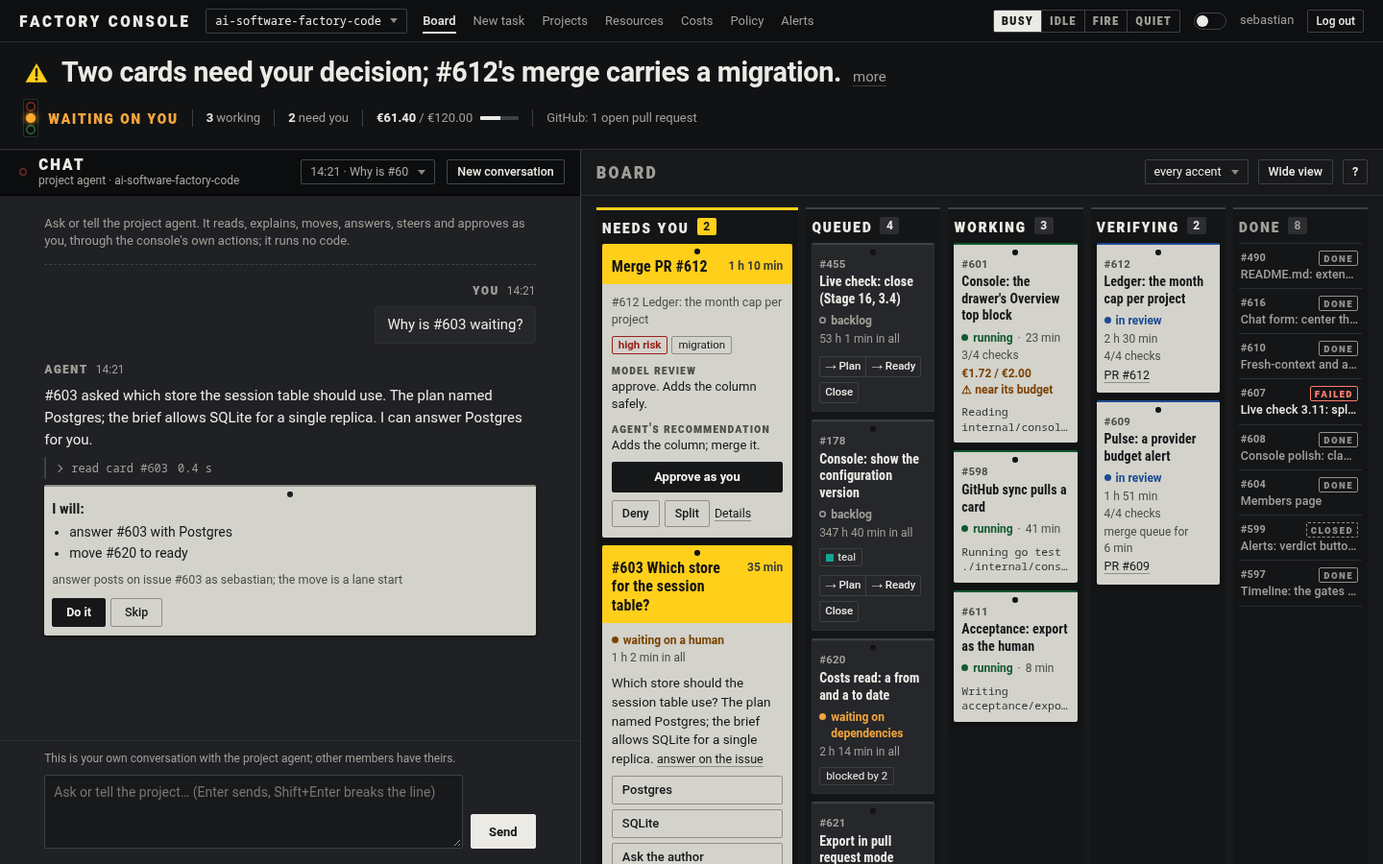
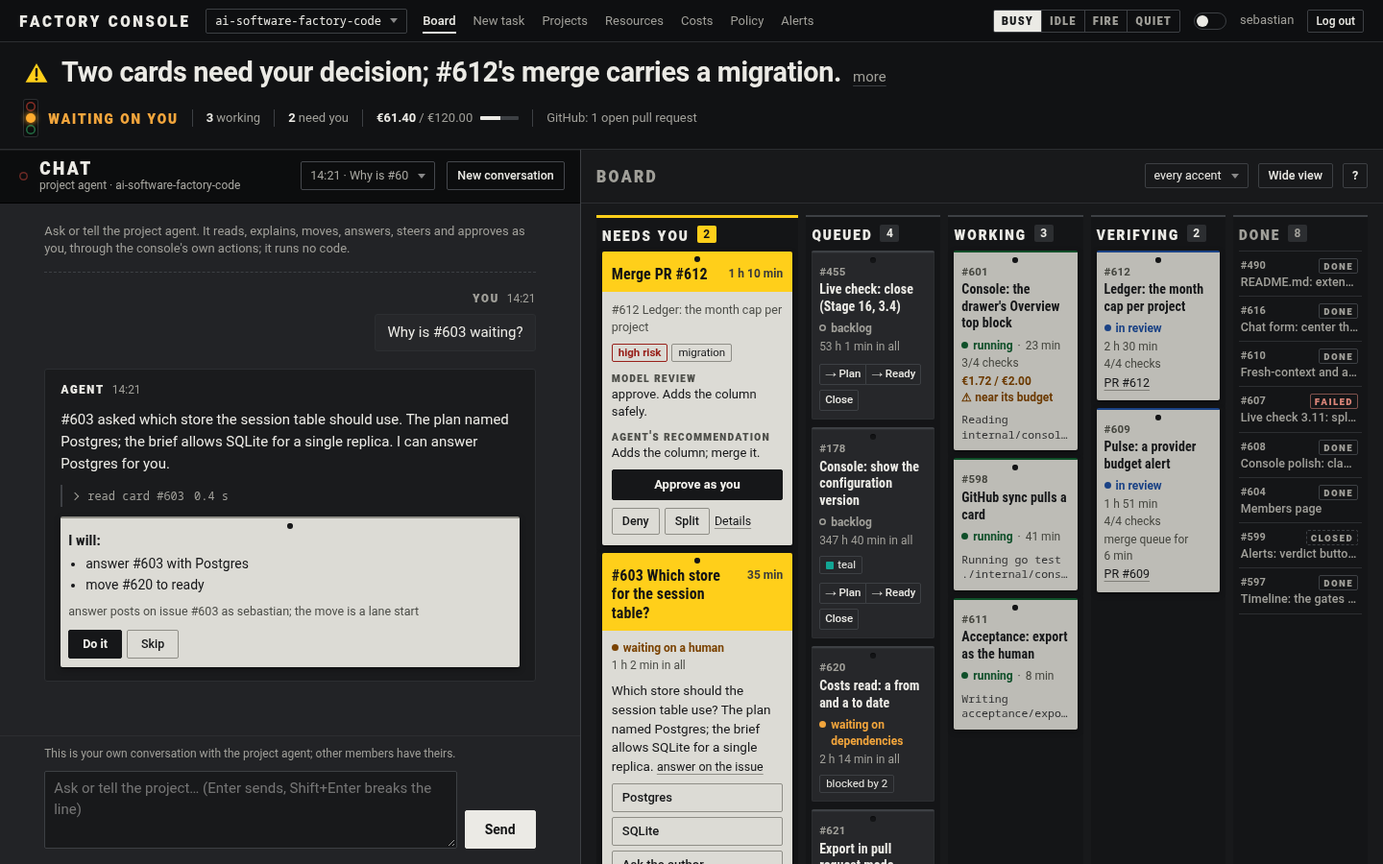
prototype 13 Factory floor: fix loop 1 (dimmed work orders, the chat raised, opaque drawer, phone status row and buttons, light top bar) and the second critique

diff --git a/design/prototypes/13-factory-floor/index.html b/design/prototypes/13-factory-floor/index.html
@@ -12,24 +12,24 @@
   --sans: "Inter", -apple-system, "Segoe UI", Roboto, "Helvetica Neue", Arial, sans-serif;
   --cond: "Roboto Condensed", "Helvetica Neue Condensed", "HelveticaNeue-CondensedBold", "Arial Narrow", "Liberation Sans Narrow", "Nimbus Sans Narrow", sans-serif;
   --mono: "JetBrains Mono", "SF Mono", Menlo, Consolas, "Noto Sans Mono", "DejaVu Sans Mono", monospace;
-  --bar: #0e0f11; --band: #111214; --bg: #18191b; --sunken: #141517; --raised: #202124;
-  --plate: #0c0d0e; --card: #26272a; --paper: #d3d2cb;
+  --bar: #0e0f11; --band: #111214; --bg: #18191b; --sunken: #141517; --raised: #222326;
+  --plate: #0c0d0e; --card: #26272a; --paper: #dcdbd5; --turn: #1a1b1d;
   --line: #2c2e31; --line-2: #3d4044; --hover: rgba(255,255,255,.055);
   --text: #ebeae5; --muted: #a09f99;
   --run: #5fcb92; --wait: #f2a53c; --review: #84b5ff; --fail: #ff7b6c; --done: #a09f99;
   --btn: #ebeae5; --btn-ink: #121314; --btn-hover: #ffffff; --focus: #ebeae5;
-  --need: #ffcf1a; --need-ink: #141414;
+  --need: #ffcf1a; --need-ink: #141414; --fail-muted: #d98478;
   --shadow: 0 1px 0 rgba(0,0,0,.5), 0 2px 6px rgba(0,0,0,.35);
   --drawer-shadow: -18px 0 40px rgba(0,0,0,.5);
   color-scheme: dark;
 }
 [data-theme="light"] {
   --bar: #f3f3ef; --band: #f3f3ef; --bg: #dcdbd5; --sunken: #d2d1ca; --raised: #fafaf8;
-  --plate: #26282b; --card: #ecebe5; --paper: #ffffff;
+  --plate: #26282b; --card: #ecebe5; --paper: #ffffff; --turn: #f0f0ec;
   --line: #c4c3bc; --line-2: #a9a8a0; --hover: rgba(0,0,0,.05);
   --text: #161719; --muted: #50514b;
   --run: #11592f; --wait: #7a4200; --review: #1d4a92; --fail: #98201a; --done: #50514b;
-  --btn: #161719; --btn-ink: #f4f3ee; --btn-hover: #34363a; --focus: #161719;
+  --btn: #161719; --btn-ink: #f4f3ee; --btn-hover: #34363a; --focus: #161719; --fail-muted: #9a3b30;
   --shadow: 0 1px 0 rgba(0,0,0,.08), 0 1px 3px rgba(0,0,0,.12);
   --drawer-shadow: -18px 0 40px rgba(0,0,0,.16);
   color-scheme: light;
@@ -42,6 +42,13 @@
   background: var(--paper); color: var(--text); color-scheme: light;
 }
 [data-theme="light"] .paper { --muted: #50514b; }
+/* Work orders on the board are dimmed paper: the Needs you items stay the only bright thing there. */
+[data-theme="dark"] .paper.dim {
+  --paper: #bdbcb6; --muted: #45463f; --line: #a3a29b; --line-2: #7f7e77; --done: #45463f;
+  --run: #0f4f29; --wait: #6c3a00; --review: #1a4285; --fail: #8a1b15;
+}
+[data-theme="light"] .paper.dim { --paper: #f2f2ef; }
+[data-theme="light"] .bar { --muted: var(--text); }
 .plate {
   --text: #ebeae5; --muted: #a8a7a1; --line: #2a2c30; --line-2: #45484d; --hover: rgba(255,255,255,.07);
   --btn: #ebeae5; --btn-ink: #121314; --btn-hover: #fff; --focus: #ebeae5;
@@ -157,20 +164,22 @@ main { display: grid; grid-template-columns: 42% minmax(0, 1fr); min-height: 0; 
 [data-view="wide"] .chat { display: none; }
 
 /* chat: the radio panel */
-.chat { --hole: var(--raised); display: grid; grid-template-rows: 48px minmax(0, 1fr) auto; min-height: 0; background: var(--raised); border-right: 1px solid var(--line-2); }
+.chat { --hole: var(--turn); display: grid; grid-template-rows: 56px minmax(0, 1fr) auto; min-height: 0; background: var(--raised); border-right: 1px solid var(--line-2); }
 .chat-h { display: flex; align-items: center; gap: 12px; padding: 0 16px 0 20px; min-width: 0; border-bottom: 1px solid #000; box-shadow: inset 0 1px 0 rgba(255,255,255,.06); }
-.air { width: 8px; height: 8px; border-radius: 50%; flex: none; box-shadow: inset 0 0 0 1.5px #6b2a25; }
+.air { width: 9px; height: 9px; border-radius: 50%; flex: none; box-shadow: inset 0 0 0 1.5px #6b2a25; }
 .air.on { background: #ff4d3d; box-shadow: 0 0 8px #ff4d3d; }
 .ch-t { flex: 1; min-width: 0; display: grid; gap: 3px; }
-.chat-h h2 { margin: 0; font-size: 21px; line-height: 15px; }
+.chat-h h2 { margin: 0; font-size: 24px; line-height: 17px; }
 .chat-h .who { color: var(--muted); font-size: 12px; line-height: 14px; white-space: nowrap; overflow: hidden; text-overflow: ellipsis; min-width: 0; }
-.chat-h .sel { height: 26px; max-width: 140px; color: var(--muted); }
-.chat-h .btn { height: 26px; }
+.chat-h .sel { height: 30px; max-width: 140px; color: var(--muted); }
+.chat-h .btn { height: 30px; }
 .log { overflow-y: auto; padding: 20px 24px 12px; min-height: 0; }
 .log-in { max-width: 70ch; margin: 0 auto; display: grid; gap: 18px; }
 .start { margin: 0; color: var(--muted); font-size: 13px; padding-bottom: 14px; border-bottom: 1px dashed var(--line-2); }
 .msg { display: grid; gap: 6px; font-size: 15px; line-height: 1.55; }
 .msg .meta { margin: 0; display: flex; gap: 8px; align-items: baseline; color: var(--muted); font-size: 12px; }
+.msg.agent { background: var(--turn); border: 1px solid var(--line); border-radius: 3px; padding: 12px 16px 14px; gap: 10px; }
+.msg.agent .cs { color: var(--text); }
 .cs { font-size: 16px; line-height: 1; color: var(--muted); }
 .msg p.txt { margin: 0; }
 .msg.you { justify-items: end; }
@@ -200,16 +209,16 @@ main { display: grid; grid-template-columns: 42% minmax(0, 1fr); min-height: 0; 
 .composer-in { max-width: 70ch; margin: 0 auto; }
 .own { margin: 0 0 8px; color: var(--muted); font-size: 12px; }
 .compose { display: grid; grid-template-columns: 1fr auto; gap: 8px; align-items: end; }
-.compose textarea { min-height: 68px; font-size: 14px; background: var(--bg); }
+.compose textarea { min-height: calc(3 * 1.45em + 16px); font-size: 15px; background: var(--bg); }
 [data-theme="light"] .compose textarea { background: #fff; }
-.compose .btn { height: 36px; padding: 0 18px; font-size: 13px; }
+.compose .btn { height: 40px; padding: 0 20px; font-size: 14px; }
 .queue { list-style: none; margin: 8px 0 0; padding: 0; display: grid; gap: 4px; }
 .queue li { display: flex; gap: 6px; align-items: center; border: 1px dashed var(--line-2); border-radius: 2px; padding: 3px 4px 3px 10px; font-size: 13px; }
 .queue li .q-t { flex: 1; text-align: left; background: none; border: 0; padding: 2px 0; overflow: hidden; text-overflow: ellipsis; white-space: nowrap; }
 .queue li .q-t:hover { text-decoration: underline; }
 
 /* board */
-.board { display: grid; grid-template-rows: 48px minmax(0, 1fr); min-height: 0; min-width: 0; }
+.board { position: relative; display: grid; grid-template-rows: 56px minmax(0, 1fr); min-height: 0; min-width: 0; }
 .bh { display: flex; align-items: center; gap: 10px; padding: 0 16px; border-bottom: 1px solid var(--line); }
 .bh h2 { margin: 0 auto 0 0; font-size: 22px; line-height: 1; color: var(--muted); }
 .bh .sel, .bh .btn { height: 26px; }
@@ -284,9 +293,8 @@ main { display: grid; grid-template-columns: 42% minmax(0, 1fr); min-height: 0; 
 .led .t:hover { background: var(--hover); }
 .led .ref { display: block; height: 18px; line-height: 18px; margin: 0; font-size: 11px; }
 .led .tt { display: block; font: 500 12.5px/1.3 var(--sans); white-space: nowrap; overflow: hidden; text-overflow: ellipsis; color: var(--muted); }
-.led.failed .tt { color: var(--text); }
-.stamp { position: absolute; right: 4px; top: 7px; font: 700 13px/14px var(--cond); font-variant-caps: all-small-caps; letter-spacing: .1em; color: var(--done); border: 1px solid currentColor; border-radius: 2px; padding: 0 4px; pointer-events: none; opacity: .9; }
-.stamp.fail { color: var(--fail); opacity: 1; }
+.stamp { position: absolute; right: 4px; top: 7px; font: 700 13px/14px var(--cond); font-variant-caps: all-small-caps; letter-spacing: .1em; color: var(--muted); border: 1px solid var(--line-2); border-radius: 2px; padding: 0 4px; pointer-events: none; }
+.stamp.fail { color: var(--fail-muted); border-color: color-mix(in srgb, var(--fail-muted) 55%, transparent); }
 .stamp.closed { border-style: dashed; }
 @container (max-width: 150px) { .wo .t .tt { -webkit-line-clamp: 3; } }
 @container (min-width: 240px) {
@@ -322,7 +330,11 @@ main { display: grid; grid-template-columns: 42% minmax(0, 1fr); min-height: 0; 
 .form { display: grid; gap: 6px; }
 .form label, .form legend { font-size: 12px; color: var(--muted); }
 .form fieldset { border: 0; padding: 0; margin: 0; display: grid; gap: 3px; }
-.form fieldset label { color: var(--text); font-size: 12.5px; display: flex; gap: 6px; align-items: baseline; }
+.form fieldset { gap: 5px; }
+.form fieldset label { color: var(--text); font-size: 12.5px; display: flex; gap: 8px; align-items: center; min-height: 32px; padding: 4px 10px; border: 1px solid var(--line-2); border-radius: 2px; cursor: pointer; }
+.form fieldset label:hover { border-color: var(--muted); }
+.form fieldset label:has(input:checked) { border-color: var(--text); box-shadow: inset 0 0 0 1px var(--text); }
+.form input[type=radio] { accent-color: var(--text); margin: 0; flex: none; }
 .form .acts { margin: 0; }
 .verdict { border-top: 1px solid var(--line); padding-top: 8px; display: flex; flex-wrap: wrap; gap: 5px; align-items: center; font-size: 12px; color: var(--muted); }
 .verdict > span { flex-basis: 100%; }
@@ -331,7 +343,9 @@ main { display: grid; grid-template-columns: 42% minmax(0, 1fr); min-height: 0; 
 
 /* drawer */
 .drawer { --hole: var(--raised); position: absolute; top: 0; right: 0; bottom: 0; width: min(46vw, 720px); z-index: 20; display: grid; grid-template-rows: auto auto auto minmax(0, 1fr); background: var(--raised); border-left: 1px solid var(--line-2); box-shadow: var(--drawer-shadow); animation: slide .16s ease-out; }
-@keyframes slide { from { transform: translateX(12px); opacity: 0; } }
+@keyframes slide { from { transform: translateX(12px); } }
+.board.dimmed::after { content: ""; position: absolute; inset: 0; z-index: 10; background: rgba(0,0,0,.45); cursor: pointer; }
+[data-theme="light"] .board.dimmed::after { background: rgba(40,40,36,.22); }
 .dr-h { display: flex; gap: 14px; align-items: flex-start; padding: 14px 16px 14px 20px; border-bottom: 1px solid #000; box-shadow: inset 0 1px 0 rgba(255,255,255,.06); }
 .dr-h .ref { font: 600 12px/1 var(--sans); color: var(--muted); text-decoration: none; }
 .dr-h .ref:hover { color: var(--text); text-decoration: underline; }
@@ -347,19 +361,20 @@ main { display: grid; grid-template-columns: 42% minmax(0, 1fr); min-height: 0; 
 .tab:hover { color: var(--text); }
 .tab[aria-selected="true"] { color: var(--text); border-bottom-color: var(--text); }
 .panel { overflow-y: auto; min-height: 0; padding-bottom: 24px; }
-.top { display: grid; grid-template-columns: 76px 1fr; gap: 7px 14px; margin: 0; padding: 18px 20px; font-size: 14px; }
+.top { display: grid; grid-template-columns: 88px 1fr; margin: 18px 20px 20px; border-top: 2px solid var(--line-2); font-size: 14px; }
+.top dt, .top dd { margin: 0; padding: 8px 0; border-bottom: 1px solid var(--line); }
 .top dt { font: 700 15px/1.4 var(--cond); font-variant-caps: all-small-caps; letter-spacing: .08em; color: var(--muted); }
-.top dd { margin: 0; }
 .d-open { margin: 0 20px 18px; display: grid; gap: 8px; }
 .d-open > * { margin: 0; }
 .d-open .lab { font: 700 15px/1 var(--cond); font-variant-caps: all-small-caps; letter-spacing: .08em; color: var(--muted); }
 .sec { border-top: 1px solid var(--line); }
-.sec summary { list-style: none; cursor: pointer; display: flex; align-items: center; gap: 10px; padding: 11px 20px; font: 700 17px/1.1 var(--cond); font-variant-caps: all-small-caps; letter-spacing: .08em; }
+.sec:last-child { border-bottom: 1px solid var(--line); }
+.sec summary { list-style: none; cursor: pointer; display: flex; align-items: center; gap: 12px; padding: 15px 20px 14px; font: 700 17px/1.1 var(--cond); font-variant-caps: all-small-caps; letter-spacing: .08em; }
 .sec summary::-webkit-details-marker { display: none; }
 .sec summary::before { content: ""; width: 6px; height: 6px; border-right: 1.5px solid var(--muted); border-bottom: 1.5px solid var(--muted); transform: rotate(-45deg); transition: transform .12s; }
 .sec[open] summary::before { transform: rotate(45deg); }
 .sec summary:hover { background: var(--hover); }
-.sec-b { padding: 2px 20px 16px 36px; display: grid; gap: 8px; font-size: 13.5px; }
+.sec-b { padding: 0 20px 20px 38px; display: grid; gap: 10px; font-size: 13.5px; line-height: 1.5; }
 .sec-b > * { margin: 0; }
 .kv { display: grid; grid-template-columns: minmax(120px, auto) 1fr; gap: 6px 14px; margin: 0; }
 .kv dt { color: var(--muted); font-size: 12.5px; }
@@ -388,11 +403,13 @@ main { display: grid; grid-template-columns: 42% minmax(0, 1fr); min-height: 0; 
 .gmeter i { display: block; height: 100%; background: var(--muted); }
 .d-sec-h { margin: 18px 20px 6px; font: 700 17px/1 var(--cond); font-variant-caps: all-small-caps; letter-spacing: .08em; color: var(--muted); }
 .d-pad { padding: 0 10px; }
-.sess { margin: 16px 20px 8px; font: 600 13px/1.3 var(--sans); }
-.dmsgs { list-style: none; margin: 0; padding: 0 20px; display: grid; gap: 12px; }
-.dmsgs li { display: grid; gap: 2px; font-size: 14px; line-height: 1.5; border-left: 2px solid var(--line-2); padding-left: 10px; }
-.dmsgs li.me { border-left-color: var(--text); }
-.dmsgs .meta { font-size: 12px; color: var(--muted); }
+.sess { margin: 18px 20px 10px; font: 600 13px/1.3 var(--sans); }
+.dmsgs { list-style: none; margin: 0 20px; padding: 0; border-top: 2px solid var(--line-2); }
+.dmsgs li { display: grid; grid-template-columns: 96px 1fr; gap: 14px; padding: 10px 0; border-bottom: 1px solid var(--line); font-size: 14px; line-height: 1.5; }
+.dmsgs .who { display: grid; align-content: start; gap: 2px; }
+.dmsgs .who b { font: 700 15px/1.2 var(--cond); font-variant-caps: all-small-caps; letter-spacing: .08em; color: var(--muted); }
+.dmsgs li.me .who b { color: var(--text); }
+.dmsgs .who time { font-size: 12px; color: var(--muted); }
 .steer { margin: 16px 20px 0; display: grid; grid-template-columns: 1fr auto; gap: 8px; align-items: end; }
 .none { margin: 18px 20px; color: var(--muted); }
 .add { color: var(--run); } .del { color: var(--fail); }
@@ -433,7 +450,16 @@ footer#live { padding: 6px 24px; color: var(--muted); border-top: 1px solid var(
   .sentence { font-size: 19px; }
   .more { font-size: 14px; }
   .bullets { padding-left: 18px; font-size: 13.5px; }
-  .figs > * { padding: 0 10px; }
+  .figs { display: block; margin-top: 10px; font-size: 12px; line-height: 1.6; }
+  .figs > :first-child { display: flex; gap: 8px; margin-bottom: 2px; }
+  .figs > :not(:first-child) { display: inline; padding: 0; border: 0; white-space: normal; }
+  .figs > :not(:first-child) > * { white-space: nowrap; }
+  .figs > :nth-child(n+3)::before { content: " · "; color: var(--muted); }
+  .figs .meter { display: none; }
+  .andon { grid-auto-flow: column; gap: 3px; padding: 2px 3px; }
+  .andon i { width: 8px; height: 8px; }
+  .andon i.on { box-shadow: 0 0 4px var(--c); }
+  .state-word { font-size: 17px; line-height: 12px; }
   main { display: block; }
   .chat { border-right: 0; border-bottom: 1px solid var(--line-2); grid-template-rows: auto auto auto; }
   .chat-h { flex-wrap: wrap; padding: 10px 14px; gap: 8px 10px; }
@@ -454,10 +480,12 @@ footer#live { padding: 6px 24px; color: var(--muted); border-top: 1px solid var(
   .lane.folded .lb { display: none; }
   .lane.folded .lh { margin-bottom: 0; }
   .lane.folded { padding-bottom: 8px; }
-  .choices .btn, .need .acts .btn { width: 100%; justify-content: center; height: 40px; font-size: 14px; }
-  .need .acts { display: grid; grid-template-columns: 1fr 1fr; }
-  .need .acts .lnk { justify-self: start; grid-column: 1 / -1; }
-  .need .acts.stack { grid-template-columns: 1fr; }
+  .need .btn { width: 100%; min-height: 44px; justify-content: center; font-size: 14px; }
+  .need .btn.pri { min-height: 44px; font-size: 14px; }
+  .need .acts, .verdict { display: grid; grid-template-columns: 1fr; gap: 6px; }
+  .need .acts .lnk, .need .words-t { justify-self: start; min-height: 32px; font-size: 13.5px; }
+  .choices { gap: 6px; }
+  .form fieldset label { min-height: 44px; font-size: 14px; }
   .drawer { position: fixed; inset: 0; width: auto; z-index: 40; }
   .dr-h h2 { font-size: 19px; }
   .top { grid-template-columns: 64px 1fr; }
@@ -609,9 +637,7 @@ function renderPulse() {
   const d = D(), p = d.pulse, el = $('#pulse');
   el.className = 'pulse' + (p.prominent ? ' prom' : '');
   const over = d.spend > d.cap;
-  // scenarios.js names `working` twice per scenario; the card list wins, so the figure is counted from it
-  const working = d.working.filter((c) => !c.provider).length;
-  const lamp = d.provider > 0 || over ? 'r' : d.needYou > 0 ? 'a' : working > 0 ? 'g' : '';
+  const lamp = d.provider > 0 || over ? 'r' : d.needYou > 0 ? 'a' : d.workingCount > 0 ? 'g' : '';
   const sw = d.state === 'waiting on you' ? 'wait' : d.state === 'working' ? 'run' : '';
   const pct = Math.min(100, Math.round(d.spend / d.cap * 100));
   el.innerHTML = `
@@ -624,11 +650,11 @@ function renderPulse() {
     <ul class="bullets" id="pulse-bullets" ${st.pulseOpen ? '' : 'hidden'}>${p.bullets.map((b) => `<li>${esc(b)}</li>`).join('')}</ul>
     <p class="figs" id="status-line" aria-label="Status of the project">
       <span><span class="andon" aria-hidden="true"><i class="r${lamp === 'r' ? ' on' : ''}"></i><i class="a${lamp === 'a' ? ' on' : ''}"></i><i class="g${lamp === 'g' ? ' on' : ''}"></i></span><span class="state-word ${sw}">${esc(d.state)}</span></span>
-      <span><b>${working}</b> working</span>
-      ${d.provider ? `<span class="bad"><b>${d.provider}</b> waiting on the provider</span>` : ''}
+      <span><span><b>${d.workingCount}</b> working</span></span>
+      ${d.provider ? `<span class="bad"><span><b>${d.provider}</b> waiting on the provider</span></span>` : ''}
       <a href="#lane-needs" id="need-link"><span><b>${d.needYou}</b> need you</span></a>
       <a href="#" class="${over ? 'bad' : ''}" title="spend this UTC month against the project's month cap"><span><b>${eur(d.spend)}</b> / ${eur(d.cap)}</span><span class="meter" aria-hidden="true"><i style="--v:${pct}%"></i></span></a>
-      ${d.github ? `<span>GitHub: ${esc(d.github)}</span>` : ''}
+      ${d.github ? `<span><span>GitHub: ${esc(d.github)}</span></span>` : ''}
     </p>`;
 }
 
@@ -694,7 +720,7 @@ function send() {
 /* ---------- the board ---------- */
 function workOrder(c, lane) {
   const h = hue(c.status);
-  const cls = lane === 'queued' ? 'wo slip' : `wo paper ${h}`;
+  const cls = lane === 'queued' ? 'wo slip' : `wo paper dim ${h}`;
   let actHtml = '';
   if (c.moves || c.closes) {
     const ok = Object.keys(st.ok).find((k) => k.startsWith(c.issue + ':card:'));
@@ -899,7 +925,7 @@ function chatTab(c, full) {
   const s = full && full.session;
   if (!s) return '<p class="none">No session yet</p>';
   return `<p class="sess">Session ${s.n} · ${esc(s.model)} · ${esc(s.outcome)}</p>
-    <ol class="dmsgs" aria-label="The messages of session ${s.n}">${s.said.map((m) => `<li class="${m.who === 'agent' ? '' : 'me'}"><span class="meta"><b>${esc(m.who)}</b> · ${esc(m.at)}</span><span>${esc(m.text)}</span></li>`).join('')}</ol>
+    <ol class="dmsgs" aria-label="The messages of session ${s.n}">${s.said.map((m) => `<li class="${m.who === 'agent' ? '' : 'me'}"><span class="who"><b>${esc(m.who)}</b><time>${esc(m.at)}</time></span><span>${esc(m.text)}</span></li>`).join('')}</ol>
     ${c.status === 'running' ? `<form class="steer" data-steer="1"><label class="vh" for="steer-in">Your message to the running session</label><textarea class="box" id="steer-in" rows="2" placeholder="Message the running session; it reads it at its next step"></textarea><button type="submit" class="btn pri">Send</button></form>` : ''}`;
 }
 
@@ -921,18 +947,19 @@ function renderDrawer() {
     <div class="panel" id="dpanel" role="tabpanel" aria-labelledby="tab-${dr.tab}">${body}</div>`;
   el.hidden = false;
 }
+function syncScrim() { $('#board').classList.toggle('dimmed', !!st.drawer && !phone.matches); }
 function openDrawer(issue, section, opener) {
   const { c } = findCard(issue);
   st.drawer = { issue: Number(issue), tab: section ? 'Overview' : c.status === 'running' ? 'Chat' : 'Overview', section };
   st.opener = opener || document.activeElement;
-  renderDrawer();
+  renderDrawer(); syncScrim();
   const tgt = section ? $('#sec-reviews summary') : $('#drawer-title');
   (tgt || $('#drawer-close')).focus();
   if (section && tgt) tgt.scrollIntoView({ block: 'start' });
 }
 function closeDrawer() {
   const issue = st.drawer && st.drawer.issue;
-  st.drawer = null; renderDrawer();
+  st.drawer = null; renderDrawer(); syncScrim();
   const back = st.opener && document.contains(st.opener) ? st.opener : document.querySelector(`[data-open="${issue}"]`);
   if (back) back.focus();
 }
@@ -949,7 +976,7 @@ function loadScenario(name) {
   st.log = JSON.parse(JSON.stringify(D().chat));
   document.querySelectorAll('#scenario button').forEach((b) => b.setAttribute('aria-pressed', String(b.dataset.sc === name)));
   $('#project').innerHTML = `<option>${esc(D().project)}</option>`;
-  renderPulse(); renderLog(); renderQueue(); renderBoard(); renderDrawer();
+  renderPulse(); renderLog(); renderQueue(); renderBoard(); renderDrawer(); syncScrim();
 }
 function setWide(on) {
   st.wide = on;
@@ -965,6 +992,7 @@ function rerender(key) {
 
 /* ---------- events ---------- */
 document.addEventListener('click', (e) => {
+  if (e.target.id === 'board' && st.drawer) { closeDrawer(); return; }
   const t = e.target.closest('button, a'); if (!t) return;
   if (t.matches('a[href="#"]')) e.preventDefault();
   if (t.dataset.sc) { loadScenario(t.dataset.sc); const u = new URL(location); u.searchParams.set('scenario', t.dataset.sc); history.replaceState(null, '', u); return; }
@@ -1064,7 +1092,7 @@ $('#keys').addEventListener('keydown', (e) => { if (e.key === 'Tab') { e.prevent
 
 $('#accent').addEventListener('change', (e) => { st.accent = e.target.value; renderBoard(); });
 $('#project').addEventListener('change', () => loadScenario(st.sc));
-phone.addEventListener('change', renderBoard);
+phone.addEventListener('change', () => { renderBoard(); syncScrim(); });
 
 applyTheme();
 setWide(false);

diff --git a/design/themes/13-factory-floor/DESIGN.md b/design/themes/13-factory-floor/DESIGN.md
@@ -14,11 +14,13 @@ Materials keep their colour across the two moods: paper stays light, the radio f
 |---|---|---|---|
 | --bar, --band | #0e0f11, #111214 | #f3f3ef, #f3f3ef | top bar, pulse band |
 | --bg | #18191b | #dcdbd5 | the floor (concrete) |
-| --bg-raised | #202124 | #fafaf8 | the chat panel, the drawer |
+| --bg-raised | #222326 | #fafaf8 | the chat panel, the drawer (opaque; a scrim dims the board while the drawer is open) |
+| --turn | #1a1b1d | #f0f0ec | the agent's turn in the chat, a faint faceplate panel |
 | --plate | #0c0d0e | #26282b | faceplates: the chat header, the drawer header (dark in both) |
 | --bg-sunken | #141517 | #d2d1ca | the board's lanes (columns) |
 | --card | #26272a | #ecebe5 | a queued slip (order not yet on the line) |
-| --paper | #d3d2cb | #ffffff | a work order on the line (working, verifying), Needs you bodies, the chat's proposal |
+| --paper | #dcdbd5 | #ffffff | Needs you bodies, the chat's proposal, the drawer's open need |
+| --paper-dim | #bdbcb6 | #f2f2ef | a work order on the line (working, verifying): dimmed so the yellow stays the only bright thing on the board; darker paper inks (#0f4f29, #6c3a00, #1a4285, #8a1b15, muted #45463f) keep 4.5:1 |
 | --line, --line-2 | #2c2e31, #3d4044 | #c4c3bc, #a9a8a0 | hairlines, card top rule |
 | --text | #ebeae5 (14.2:1) | #161719 | ink |
 | --text-muted | #a09f99 (6.3:1) | #50514b | meta, the done ledger |
@@ -27,7 +29,8 @@ Materials keep their colour across the two moods: paper stays light, the radio f
 | --st-running | #5fcb92 / on paper #11592f | #11592f | dot, state word |
 | --st-waiting | #f2a53c / on paper #7a4200 | #7a4200 | waiting on a human or dependencies, near budget |
 | --st-review | #84b5ff / on paper #1d4a92 | #1d4a92 | in review |
-| --st-done, --st-closed | #a09f99 | #50514b | stamp ink |
+| --st-done, --st-closed | #a09f99 | #50514b | stamp ink: muted text in a --line-2 outline |
+| --fail-muted | #d98478 | #9a3b30 | the failed stamp, outline at 55 percent |
 | --st-failed | #ff7b6c / on paper #98201a | #98201a | stamp, over-cap spend, provider down |
 | andon | lit #39d07a, #ffab2e, #ff4d3d; unlit = 1 px ring | same | the lamp stack |
 
@@ -45,7 +48,8 @@ Every state text pair is 4.5:1 or better on its surface (paper hues 5.3 to 5.7:1
 
 - Top bar 44 px, pulse band under it across the full width.
 - Below: the chat as a full-height panel on the LEFT at 42 percent (director's note: the mockup's bottom radio panel moves left so the drawer never covers it), the board on the floor at the right.
-- The chat faceplate and the board's header row are both 48 px: one line runs across the screen under the pulse.
+- The chat faceplate and the board's header row are both 56 px: one line runs across the screen under the pulse.
+- Light theme: the top bar uses the full text ink, never the muted one.
 - Board columns: Needs you 1.5 fr, the other four 1 fr each, min 132 px; under that the lanes scroll sideways inside the board, never the page.
 - Drawer: right edge, min(46 vw, 720 px), from the pulse band to the bottom, over the board only; 42 + 46 percent leaves the chat free.
 - Wide view: the board takes the full width (the chat folds away until Five columns), Human lane over Needs you, Agent lane over the rest, lane badges and drag handles on the cards.
@@ -60,13 +64,13 @@ The sentence first, the largest type on the screen. Under it the status row: the
 
 ## The chat
 
-The main region. Faceplate header (dark plate in both themes): an on-air lamp (unlit ring, lit red while the agent types), "Chat" in stencil caps, "project agent · project", the old-conversations select, New conversation. The log at most 68 ch; your message a plate on the right; an agent reply under a small "agent" call sign; tool blocks a mono line with a 2 px rule, closed; a proposal is a paper work order (top rule, punch hole) with Do it (solid ink) and Skip (quiet); applied is a green-ink line with undo. "This is your own conversation…" above the composer: a three-row box with Send; the queue under it as editable, removable slips.
+The main region. Messages at 15 px; each agent turn sits on a faint faceplate panel (--turn, 1 px line); the composer is three rows at 15 px. Faceplate header 56 px (dark plate in both themes): an on-air lamp (unlit ring, lit red while the agent types), "Chat" in stencil caps, "project agent · project", the old-conversations select, New conversation. The log at most 68 ch; your message a plate on the right; an agent reply under a small "agent" call sign; tool blocks a mono line with a 2 px rule, closed; a proposal is a paper work order (top rule, punch hole) with Do it (solid ink) and Skip (quiet); applied is a green-ink line with undo. "This is your own conversation…" above the composer: a three-row box with Send; the queue under it as editable, removable slips.
 
 ## The board and the card
 
 - Column head: 2 px top rule, stencil caps name, a count box. Needs you's rule and count box turn yellow when it holds items.
 - Work order: 2 px top rule in ink, a 6 px punch hole at top centre, the ref as the order number, the title (condensed 600, two lines), the state row (dot and word in the state's hue, elapsed, then only the exceptional figures), the mono activity line on working cards, exceptional chips, a row of quiet small buttons.
-- Queued cards are dark slips; Working and Verifying are paper; done, failed and closed are ledger lines on the lane, no box, stamped "done", "failed" or "closed" in a 1 px bordered stamp (failed in red ink). One line when the lane is wide enough (container query at 210 px), else the ref and stamp over the title.
+- Queued cards are dark slips; Working and Verifying are dimmed paper; done, failed and closed are ledger lines on the lane, no box, stamped "done", "failed" or "closed" in a muted outline tag (failed in a muted red outline); titles in the muted token. One line when the lane is wide enough (container query at 210 px), else the ref and stamp over the title.
 - Stale: a dashed waiting-hue outline around the order, the stale words in the activity line. Near budget: the spend figure with ⚠ in the waiting hue.
 
 ## Needs you
@@ -81,11 +85,11 @@ The loudest thing on the screen: a yellow band with dark condensed 700 text (the
 
 ## The drawer
 
-A raised panel at the right edge with a faceplate header (ref, title in condensed 700, close), the facts row, tabs Overview, Chat, Activity, Files (2 px ink underline on the active tab). Overview: the four-line top block as a label column in stencil caps, the open need on paper, then the collapsed sections with stencil-caps summaries. Activity: gates with a meter against the longest, steps. Files: a tabular table.
+An opaque panel at the right edge, the board under it dimmed by a scrim (a click on the scrim closes), with a faceplate header (ref, title in condensed 700, close), the facts row, tabs Overview, Chat, Activity, Files (2 px ink underline on the active tab). Overview: the four-line top block as a ruled definition list (2 px top rule, hairline per row, an 88 px label column in stencil caps), the open need on paper, then the collapsed sections with stencil-caps summaries. spaced section heads (15 px padding, a hairline each). Chat: the session log with a 96 px speaker column (name in stencil caps, time under it). Activity: gates with a meter against the longest, steps. Files: a tabular table.
 
 ## The phone
 
-Under 900 px one column: the top bar with a menu, the pulse, the chat (log 55 vh, composer), then the board as stacked lanes: Needs you, Working, Verifying, Queued, Done (collapsed). Choice buttons full width. The drawer full screen.
+Under 900 px one column: the top bar with a menu, the pulse, the status row as one line of 12 px small caps with the lamps at 8 px in a row and the figures as plain text under it, the chat (log 55 vh, composer), then the board as stacked lanes: Needs you, Working, Verifying, Queued, Done (collapsed). Every Needs you button and choice is 44 px tall, full width, one per row, ink-filled (primary) or outlined; the Deny choices are two outlined 44 px rows. The drawer full screen.
 
 ## Motion
 
